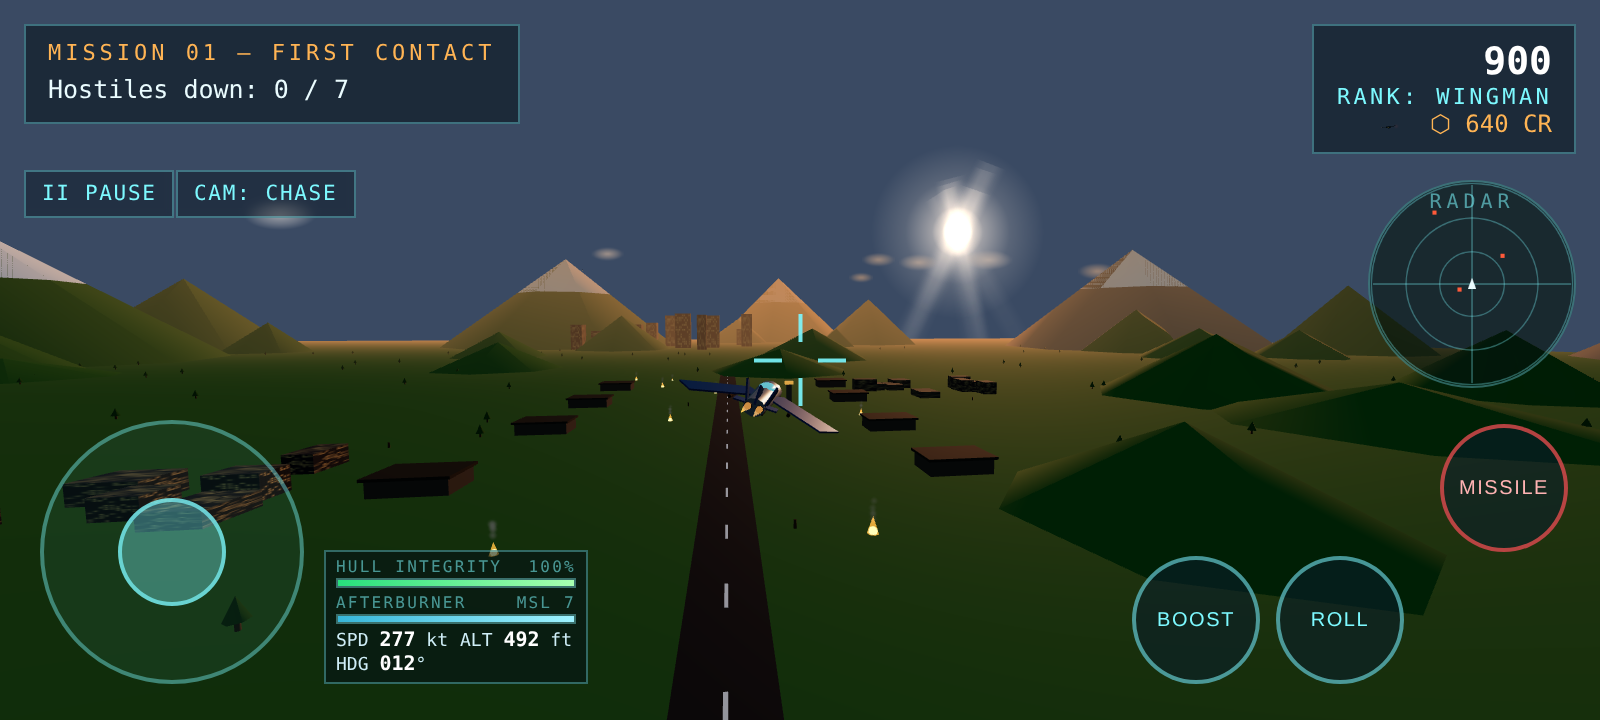
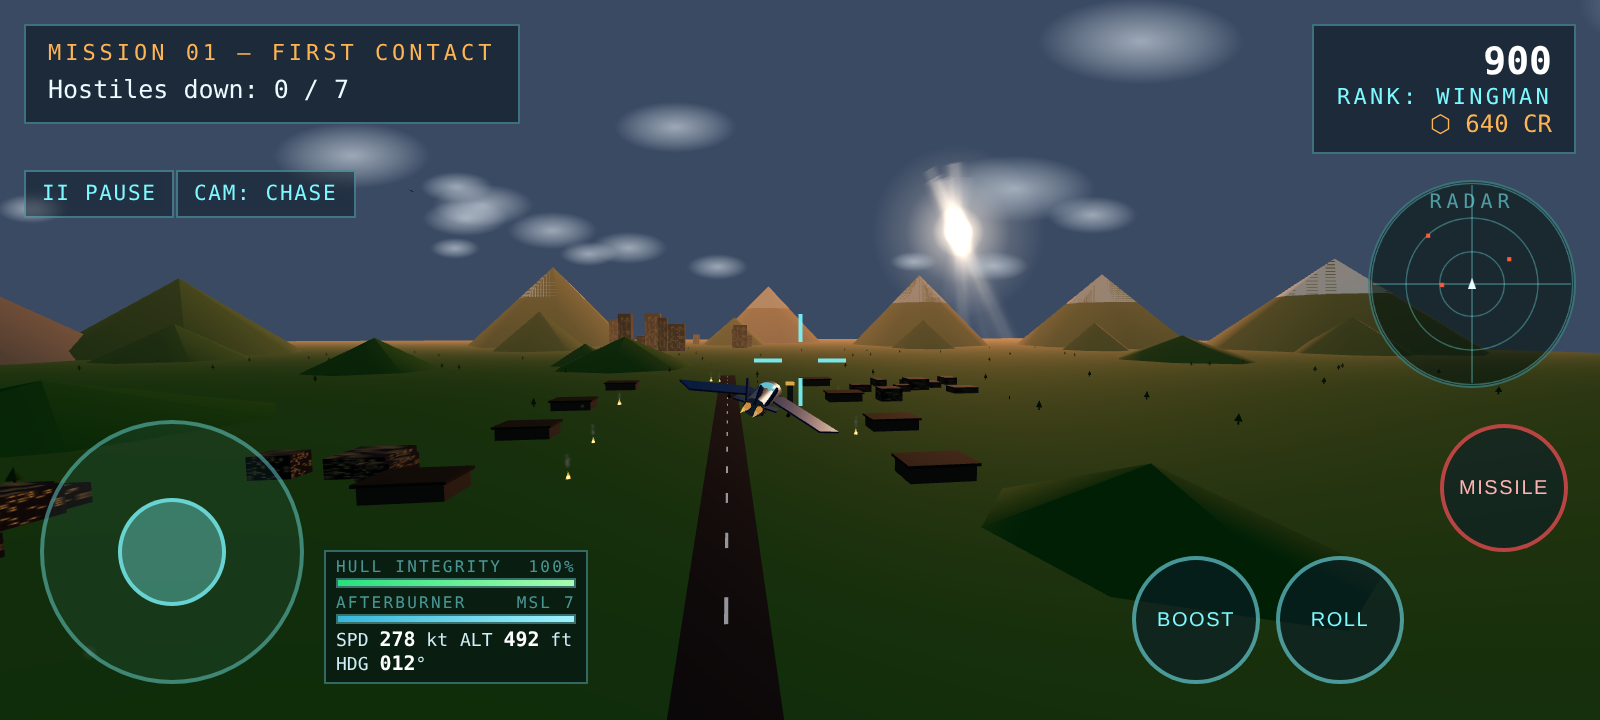
Fix blue clouds not showing: cloud sprites ignore scene fog (dawn fog washed the tint out), stronger blue-white tint, denser larger cloud band on Mission 01; changelog updated

diff --git a/index.html b/index.html
@@ -807,7 +807,7 @@ const cloudTex = canvasTexture((ctx, w, h) => {
   ctx.fillStyle = g; ctx.fillRect(0, 0, w, h);
 }, 256, 256);
 function addClouds(group, n, yBase, spread, tint = 0xffffff, scale = [180, 420]) {
-  const mat = new THREE.SpriteMaterial({ map: cloudTex, color: tint, transparent: true, opacity: 0.75, depthWrite: false });
+  const mat = new THREE.SpriteMaterial({ map: cloudTex, color: tint, transparent: true, opacity: 0.75, depthWrite: false, fog: false });
   for (let i = 0; i < n; i++) {
     const s = new THREE.Sprite(mat);
     s.position.set(rand(-spread, spread), yBase + rand(-40, 90), rand(-spread, spread));
@@ -930,7 +930,7 @@ function envAirbase(g) { // M1 — dawn, burning base
   g.add(trees, trunks);
   const fires = [];
   for (let i = 0; i < 9; i++) { const f = fireGlow(rand(-320, 320), 0, rand(-700, 700), rand(0.8, 1.7)); g.add(f); fires.push(f); }
-  addClouds(g, 16, 620, 3600, 0xe6f2ff);
+  addClouds(g, 30, 620, 3600, 0xc8e2ff, [260, 560]);
   return (dt, t) => { for (const f of fires) { f.children[0].scale.setScalar(1 + Math.sin(t * 9 + f.position.x) * 0.16); if (Math.random() < 0.25) smoke.spawn(f.position.x, 10, f.position.z, rand(-1, 1), rand(7, 12), rand(-1, 1), rand(1, 2), 0.1, 0.1, 0.1); } };
 }
 function envValley(g) { // M2 — green valley, river, convoy road
@@ -962,7 +962,7 @@ function envValley(g) { // M2 — green valley, river, convoy road
   buildingCluster(g, 640, -640, 22, { w: [22, 46], h: [16, 58], d: [22, 46], spread: 175, lit: 0.55 }); // riverside town — tall blocks
   buildingCluster(g, -280, 1500, 8, { w: [18, 34], h: [9, 20], d: [18, 34], spread: 120, lit: 0.5 });  // farmstead
   mountainRing(g, { count: 14 });
-  addClouds(g, 20, 560, 3800, 0xeef7ff);
+  addClouds(g, 20, 560, 3800, 0xdceeff);
   return null;
 }
 function envFrozen(g) { // M3 — night, snow peaks, searchlights
@@ -1071,7 +1071,7 @@ function envSea(g) { // M5 — animated ocean
   g.add(box(10, 7, 10, 0x222222, 2280, 68, 700, { emissive: 0xffe9a8, ei: 1.4 }));
   ENV.colliders.push({ x: 2280, z: 700, r: 10, h: 72 });
   const base = geo.attributes.position.array.slice();
-  addClouds(g, 18, 520, 4000, 0xeef7ff);
+  addClouds(g, 18, 520, 4000, 0xdceeff);
   return (dt, t) => {
     const arr = geo.attributes.position.array;
     for (let i = 0; i < arr.length; i += 3) {

diff --git a/CHANGELOG.md b/CHANGELOG.md
@@ -16,7 +16,7 @@ _Nothing yet — the next update lands here._
 - Greener world with real mountains: Mission 01's airbase now sits in green country (grass ground, 20 hills, 160 scattered pines) ringed by tall peaks with snow caps on the highest; the valley (Mission 02) gained a mountain ring behind its hills, and the Black Sea coast (Mission 05) turned green with a mountain range behind the port.
 - Fullscreen toggle: a ⛶ Fullscreen button on the start screen and in the pause banner — on phones this hides the browser chrome entirely, which also removes the short-viewport squeeze.
 - A visible sun with god rays: a glowing sun disc sits at each sky's real sun direction, with a fan of additive light shafts that shimmer slowly — strongest at dawn (Mission 01), gentler by day and over the sea, and off at night.
-- Cloud color now follows Rama's reference photo (a blue sky over a mackerel-cloud band): dawn, valley and sea clouds are tinted blue-white instead of warm peach/default white.
+- Cloud color now follows Rama's reference photo (a blue sky over a mackerel-cloud band): dawn, valley and sea clouds are tinted blue-white instead of warm peach/default white. Cloud sprites also ignore scene fog now — the warm dawn fog was washing the new tint out — and Mission 01 carries a denser, larger cloud band so the color actually reads.
 
 ### Changed
 - Lobby: **Change Aircraft** is now a proper UI box — dark gradient panel, bright cyan border, amber corner brackets and icon — clearly visible against the hangar.
